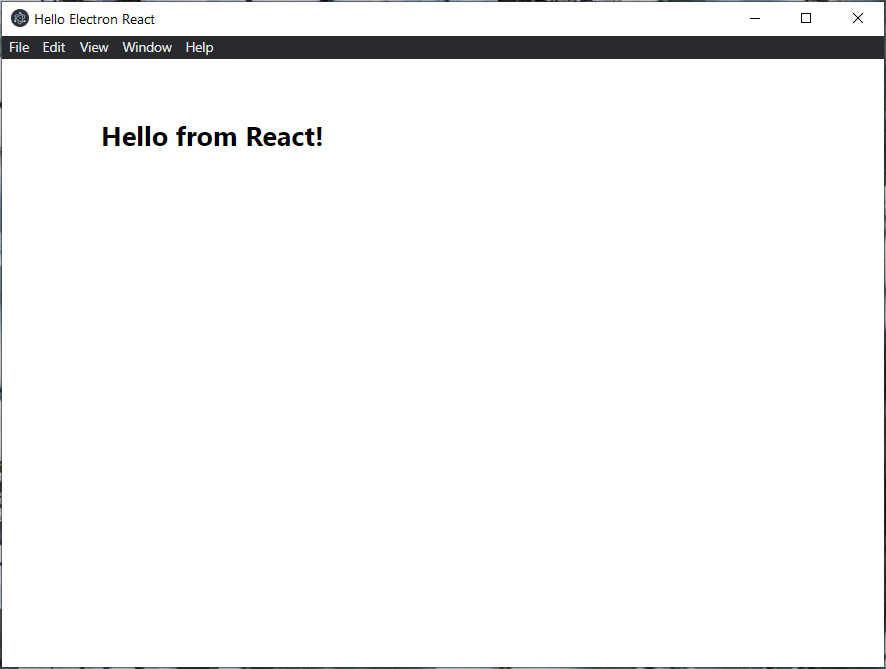
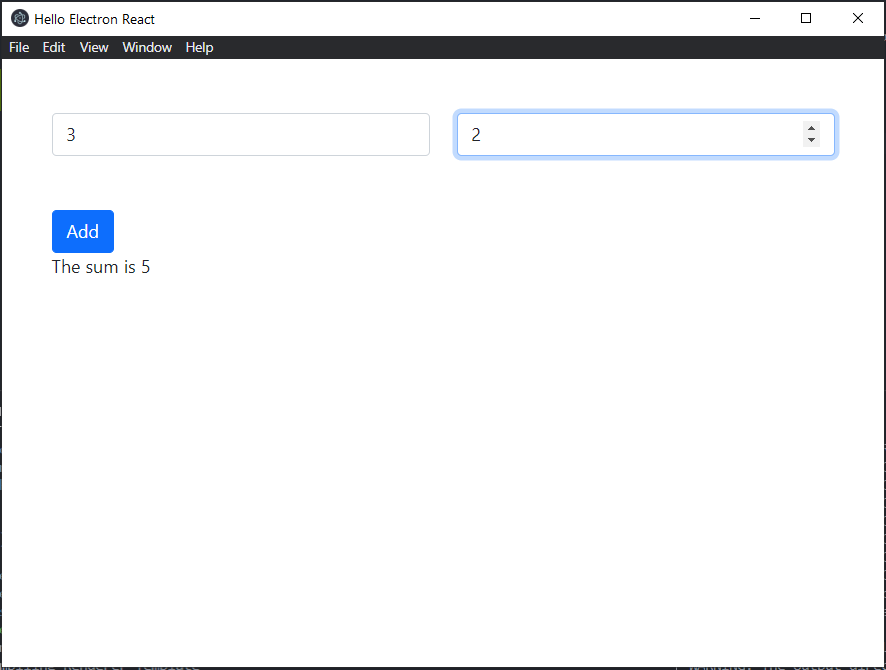
change app so it requests addition from the backend

diff --git a/my-new-app/src/components/Inputs.jsx b/my-new-app/src/components/Inputs.jsx
@@ -1,0 +1,74 @@
+import React, { useState, useEffect } from "react";
+// import Spinner from "./Spinner";
+
+const Inputs = () => {
+    const [value, setValue] = useState(null);
+    const [loading, setLoading] = useState(false);
+    const [x, setX] = useState(null);
+    const [y, setY] = useState(null);
+
+    const sendRequest = () => {
+        if (x !== null && y != null) {
+            setLoading(true)
+            fetch(
+                "http://localhost:5000",
+                {
+                    method: "POST",
+                    body: JSON.stringify({ x: x, y: y }),
+                    headers: {
+                        "Content-type": "application/json"
+                    }
+                }
+            )
+                .then(sum => sum.json())
+                .then(sum => {
+                    setValue(sum.value)
+                    setLoading(false)
+                })
+                .catch(err => console.log(err))
+        }
+
+    }
+
+
+    return (
+        <div className="container">
+            <form onSubmit={sendRequest}>
+                <div className="row my-5">
+                    <div className="col">
+                        <input
+                            type="number"
+                            className="form-control"
+                            placeholder="First Number"
+                            aria-label="First Number"
+                            value={x}
+                            onChange={e => setX(parseInt(e.target.value))}
+                        />
+                    </div>
+                    <div className="col">
+                        <input
+                            type="number"
+                            className="form-control"
+                            placeholder="Second Number"
+                            aria-label="Second Number"
+                            value={y}
+                            onChange={e => setY(parseInt(e.target.value))}
+                        />
+                    </div>
+                </div>
+                <div className="row">
+                    <div className="col">
+                        <button className="btn btn-primary" disabled={loading} onClick={sendRequest}>
+                            Add
+                        </button>
+                    </div>
+                </div>
+            </form>
+            <div>
+                {value !== null ? `The sum is ${value}` : null}
+            </div>
+        </div>
+    )
+};
+
+export default Inputs

diff --git a/my-new-app/src/app.jsx b/my-new-app/src/app.jsx
@@ -1,10 +1,11 @@
-import * as React from 'react';
-import * as ReactDOM from 'react-dom';
+import React from 'react';
+import ReactDOM from 'react-dom';
+import Inputs from "./components/Inputs.jsx";
 
 import "./index.scss";
 
 function render() {
-  ReactDOM.render(<h2>Hello from React!</h2>, document.getElementById("app"));
+  ReactDOM.render(<Inputs />, document.getElementById("app"));
 }
 
 render();

diff --git a/my-new-app/src/main.js b/my-new-app/src/main.js
@@ -73,7 +73,7 @@ const createWindow = () => {
   mainWindow.loadURL(MAIN_WINDOW_WEBPACK_ENTRY);
 
   // Open the DevTools.
-  mainWindow.webContents.openDevTools();
+  // mainWindow.webContents.openDevTools();
 };
 
 // This method will be called when Electron has finished

diff --git a/my-new-app/src/components/Spinner.js b/my-new-app/src/components/Spinner.js
@@ -1,0 +1,11 @@
+import React from "react";
+
+const Spinner = () => {
+    return (
+        <div className="spinner-border text-primary" role="status">
+            <span className="visually-hidden">Loading...</span>
+        </div>
+    );
+};
+
+export default Spinner

diff --git a/my-new-app/src/index.scss b/my-new-app/src/index.scss
@@ -1,6 +1,1 @@
-body {
-    font-family: -apple-system, BlinkMacSystemFont, "Segoe UI", Roboto, Helvetica, Arial, sans-serif;
-    margin: auto;
-    max-width: 38rem;
-    padding: 2rem;
-}
+@import "../node_modules/bootstrap/scss/bootstrap";

diff --git a/my-new-app/src/renderer.js b/my-new-app/src/renderer.js
@@ -29,4 +29,3 @@
 // import './index.css';
 import './app.jsx';
 
-console.log('👋 This message is being logged by "renderer.js", included via webpack');

diff --git a/backend/app.py b/backend/app.py
@@ -1,10 +1,25 @@
-from flask import Flask
+from flask import Flask, request, abort, jsonify
 
 app = Flask(__name__)
 
-@app.route("/")
-def home():
-    return "Hello World!"
+@app.route("/",methods=["POST"])
+def add():
+    """Add two numbers sent by the client"""
+    try:
+        x = request.json.get("x")
+        y = request.json.get("y")
+        if x is None or y is None:
+            return abort(400)
+    except AttributeError:
+        return abort(400)
+    
+    try:
+        float(x)
+        float(y)
+    except ValueError:
+        abort(400)
+
+    return jsonify(value=x+y)
 
 if __name__ == "__main__":
     app.run(debug=False,port=5000)

diff --git a/README.md b/README.md
@@ -32,6 +32,8 @@ The final distribution will be in my-new-app\out
 
 After making the project, we can run my-new-app.exe in my-new-app\out\my-new-app-win32-x64\my-new-app.exe
 
+The other folder in "\out\" contains the distributable installer for our app.
+
 The main window will start:
 
 ![main-window](img/MainWindow.png)
